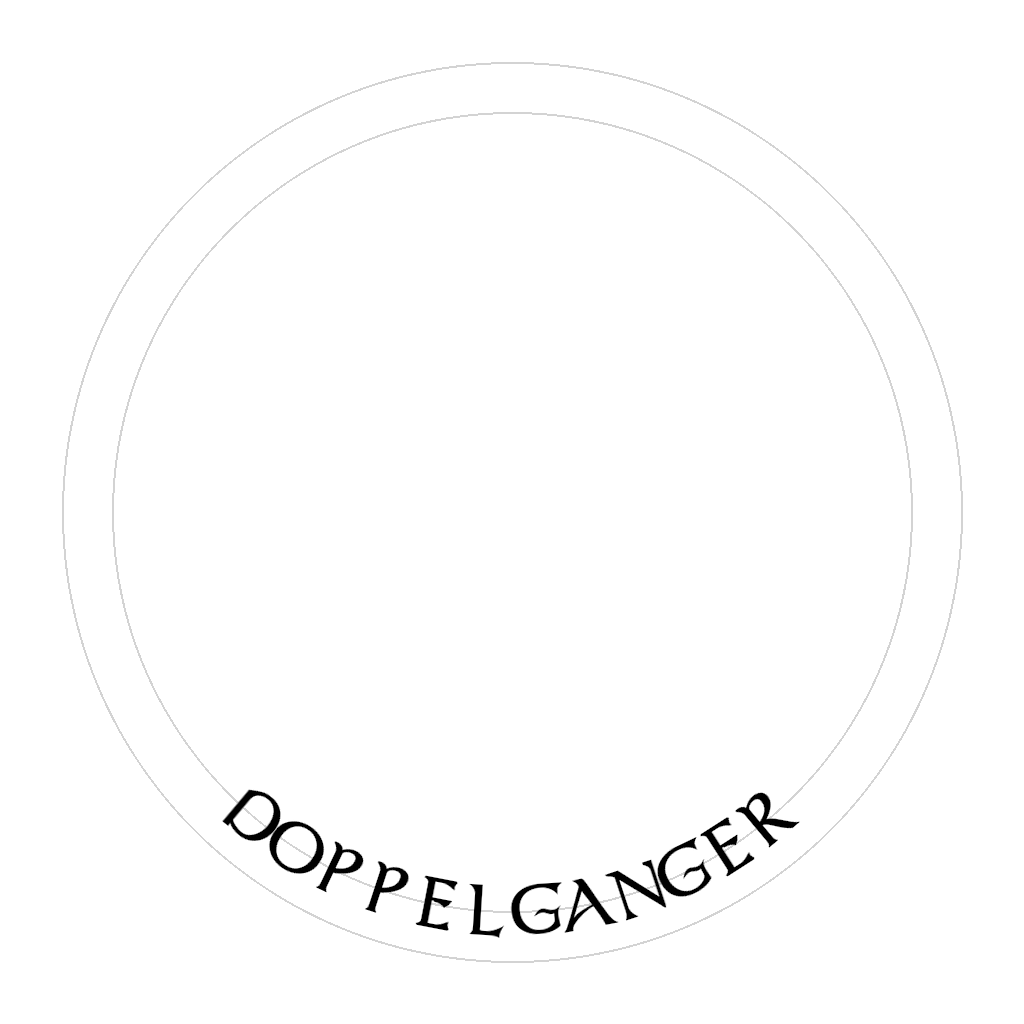
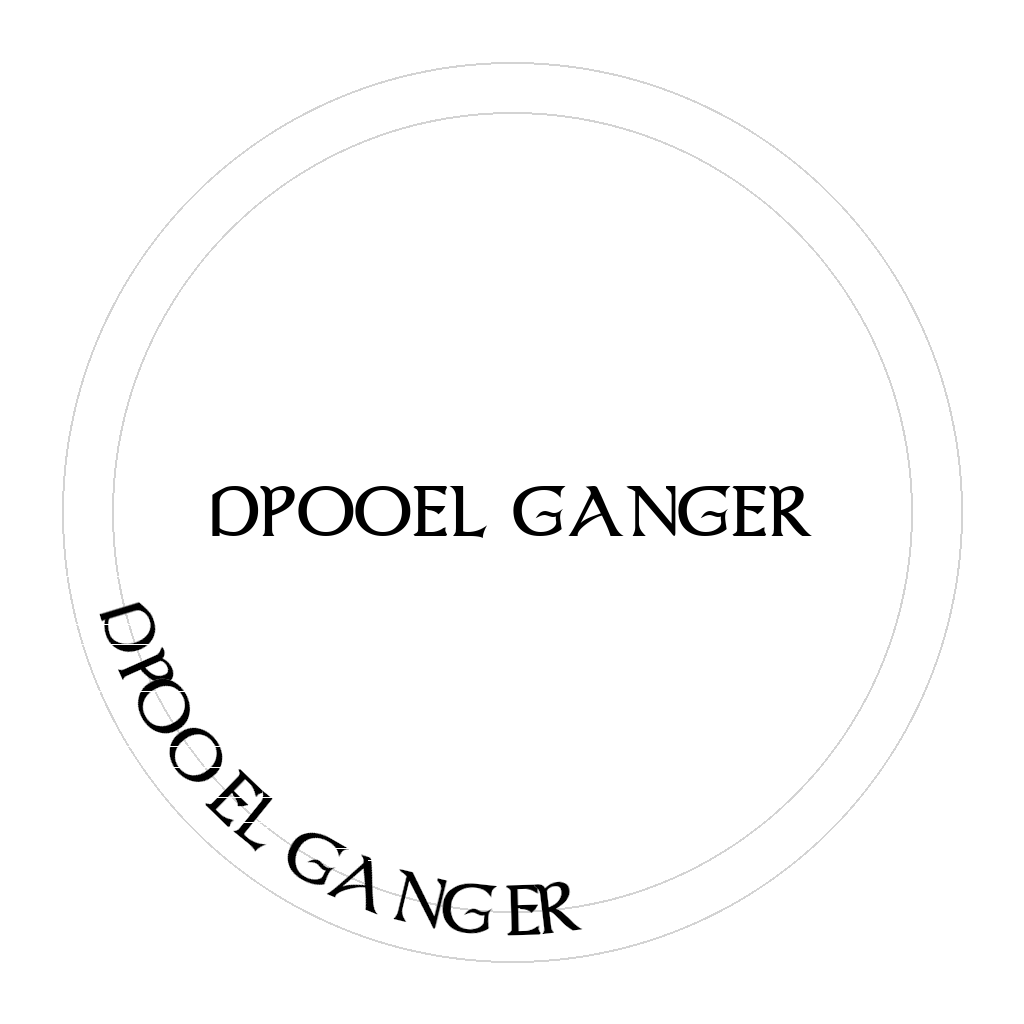
box part 1

Changed region(s): [[0.0938, 0.5938, 0.7812, 0.9375], [0.5, 0.4688, 0.7812, 0.5312], [0.1875, 0.4688, 0.4688, 0.5312]]

diff --git a/create_box_layout.py b/create_box_layout.py
@@ -1,0 +1,154 @@
+import os
+from PIL import Image, ImageDraw, ImageFont
+
+# --- Configuration ---
+DPI = 150  # Dots Per Inch
+PAPER_WIDTH_INCHES = 25
+PAPER_HEIGHT_INCHES = 25
+MARGIN_INCHES = 0.5
+OUTPUT_DIR = 'box_print_sheets'
+
+# --- Calculations (inches to pixels) ---
+PAPER_WIDTH_PX = int(PAPER_WIDTH_INCHES * DPI)
+PAPER_HEIGHT_PX = int(PAPER_HEIGHT_INCHES * DPI)
+MARGIN_PX = int(MARGIN_INCHES * DPI)
+
+PRINTABLE_WIDTH_PX = PAPER_WIDTH_PX - 2 * MARGIN_PX
+PRINTABLE_HEIGHT_PX = PAPER_HEIGHT_PX - 2 * MARGIN_PX
+
+
+def create_new_sheet():
+    """Creates a new blank letter-sized sheet with a white background."""
+    return Image.new('RGBA', (PAPER_WIDTH_PX, PAPER_HEIGHT_PX), 'white')
+
+
+
+def create_box_layout_sheet(filename, box_w, box_d, box_h, is_lid=False):
+    """Generates a printable sheet for one part of the box (tray or lid)."""
+    sheet = create_new_sheet()
+    draw = ImageDraw.Draw(sheet)
+
+    # Dimensions in pixels
+    w_px, d_px, h_px = int(box_w * DPI), int(box_d * DPI), int(box_h * DPI)
+    tab_offset = int(0.5 * DPI)
+
+
+    name_lid = (0, 0, w_px, h_px) # lid with the name on it 
+    
+    bottom_side = ( 0, h_px, w_px, h_px + d_px) # this will be under the name lid
+    bottom_side_layer_2 = (0, h_px + d_px, w_px, h_px + d_px + d_px) # this will be under bottom side
+    attatch_tab_bottom = [
+        (0, h_px + d_px + d_px),
+        (0, h_px + d_px + d_px + tab_offset//2),
+        (tab_offset//2, h_px + d_px + d_px + tab_offset),
+        (w_px - tab_offset//2, h_px + d_px + d_px + tab_offset),
+        (w_px, h_px + d_px + d_px + tab_offset//2),
+        (w_px, h_px + d_px + d_px)
+    ] # this will be bellow bottom
+
+    top_side = (0, 0, w_px, -d_px) # this will be above the name lid
+    top_side_layer_2 = (0, -d_px, w_px, -d_px - d_px) # this will be above top side
+
+    attatch_tab_top = [
+        (0, -d_px - d_px),
+        (0, -d_px - d_px - tab_offset//2),
+        (tab_offset//2, -d_px - d_px - tab_offset),
+        (w_px - tab_offset//2, -d_px - d_px - tab_offset),
+        (w_px, -d_px - d_px - tab_offset//2),
+        (w_px, -d_px - d_px)
+    ]
+
+    left_side = (0, 0, -d_px, h_px)
+    left_side_layer_2 = (-d_px, 0, -d_px - d_px, h_px)
+    attatch_tab_left = [
+        (-d_px - d_px, 0),
+        (-d_px - d_px - tab_offset//2, 0),
+        (-d_px - d_px - tab_offset, tab_offset//2),
+        (-d_px - d_px - tab_offset, h_px - tab_offset//2),
+        (-d_px - d_px - tab_offset//2, h_px),
+        (-d_px - d_px, h_px)
+    ]
+
+    right_side = (w_px, 0, w_px + d_px, h_px)
+    right_side_layer_2 = (w_px + d_px, 0, w_px + d_px + d_px, h_px)
+    attatch_tab_right = [
+        (w_px + d_px + d_px, 0),
+        (w_px + d_px + d_px + tab_offset//2, 0),
+        (w_px + d_px + d_px + tab_offset, tab_offset//2),
+        (w_px + d_px + d_px + tab_offset, h_px - tab_offset//2),
+        (w_px + d_px + d_px + tab_offset//2, h_px),
+        (w_px + d_px + d_px, h_px)
+    ]
+    def _add_constant_to_coords(coords, constant_x, constant_y):
+        """Adds a constant value to the x and y components of each coordinate pair."""
+        if type(coords) == tuple:
+            x, y, x2, y2 = coords
+            x, y, x2, y2 = x + constant_x, y + constant_y, x2 + constant_x, y2 + constant_y
+            if x > x2:
+                x, x2 = x2, x
+            if y > y2:
+                y, y2 = y2, y
+            return [(x, y), (x2, y2)]
+        print(f'coords: {coords}')
+        return [(x + constant_x, y + constant_y) for x, y in coords]
+    START_X = PAPER_WIDTH_PX//2 - w_px//2
+    START_Y = PAPER_HEIGHT_PX//2 - h_px//2
+
+    draw.rectangle(_add_constant_to_coords(name_lid, START_X, START_Y), outline="black")
+
+    draw.rectangle(_add_constant_to_coords(bottom_side, START_X, START_Y), outline="black")
+    draw.rectangle(_add_constant_to_coords(bottom_side_layer_2, START_X, START_Y), outline="black")
+    draw.polygon(_add_constant_to_coords(attatch_tab_bottom, START_X, START_Y), outline="black")
+
+    draw.rectangle(_add_constant_to_coords(top_side, START_X, START_Y), outline="black")
+    draw.rectangle(_add_constant_to_coords(top_side_layer_2, START_X, START_Y), outline="black")
+    draw.polygon(_add_constant_to_coords(attatch_tab_top, START_X, START_Y), outline="black")
+
+    draw.rectangle(_add_constant_to_coords(left_side, START_X, START_Y), outline="black")
+    draw.rectangle(_add_constant_to_coords(left_side_layer_2, START_X, START_Y), outline="black")
+    draw.polygon(_add_constant_to_coords(attatch_tab_left, START_X, START_Y), outline="black")
+
+    draw.rectangle(_add_constant_to_coords(right_side, START_X, START_Y), outline="black")
+    draw.rectangle(_add_constant_to_coords(right_side_layer_2, START_X, START_Y), outline="black")
+    draw.polygon(_add_constant_to_coords(attatch_tab_right, START_X, START_Y), outline="black")
+    return sheet
+
+
+
+
+
+
+
+    
+
+
+
+def main():
+    """
+    Generates a two-page print layout for a foldable box.
+    """
+    os.makedirs(OUTPUT_DIR, exist_ok=True)
+    print("--- Generating Printable Box Layout ---")
+    print("Black lines are for cutting, gray lines are for folding.")
+
+    # --- Define Box Dimensions ---
+    LID_WIDTH = 11.0
+    LID_HEIGHT = 2.375
+    LID_DEPTH = 1.5
+
+    # Tray is slightly smaller
+    TRAY_WIDTH = LID_WIDTH - 0.125
+    TRAY_DEPTH = LID_DEPTH - 0.125
+    TRAY_HEIGHT = 1.5
+
+    # --- Generate Sheets ---
+    # create_box_layout_sheet("box_tray_layout.png", TRAY_WIDTH, TRAY_DEPTH, TRAY_HEIGHT)
+    layout_sheet = create_box_layout_sheet("box_lid_layout.png", LID_WIDTH, LID_DEPTH, LID_HEIGHT, is_lid=True)
+    output_filename = os.path.join(OUTPUT_DIR, 'box_layout.png')
+    layout_sheet.save(output_filename)
+
+    print(f"\nBox layout generation complete. Sheets are in the '{OUTPUT_DIR}' directory.")
+
+
+if __name__ == '__main__':
+    main()

diff --git a/arc_text.py b/arc_text.py
@@ -18,29 +18,35 @@ def draw_text_on_arc(image, center_xy, radius, start_angle_deg, text_angle_deg, 
         font (PIL.ImageFont.FreeTypeFont): The font to use for the text.
         fill (tuple or str): The color of the text.
     """
-    text = text.upper()
     if not text:
         return
+    text = text.strip()
+
+    draw_text = ImageDraw.Draw(image)
+    draw_text.text(center_xy, text, font=font, fill=fill, anchor='mm')
 
     center_x, center_y = center_xy
-    num_chars = len(text)
+    def calc_char_width(char, next_char=None):
+        if next_char is None:
+            print(f'char: {char} next_char: {next_char}')
+            return font.getlength(char)
+        return font.getlength(f'{char}{next_char}') - font.getlength(next_char)
+    
 
-    # Calculate the angular step between the center of each character
-    if num_chars > 1:
-        angle_step = text_angle_deg / (num_chars - 1)
-    else:
-        angle_step = 0  # A single character is placed in the middle of the arc
+    char_widths = [calc_char_width(text[i], text[i+1])
+                   if i < len(text)-1 else calc_char_width(text[i])
+                   for i in range(len(text))]
+    assert sum(char_widths) == font.getlength(text)
+    char_angles = [ char_width / radius for char_width in char_widths]
+    # char_angles = [math.acos(
+    #                 (2 * math.pow(better_radius,2) - math.pow(char_width,2)) /
+    #                 (2 * math.pow(better_radius,2))) for char_width in char_widths]
+    print([f"{char}: {char_widths[i]}, {char_angles[i]}" for i, char in enumerate(text)])
 
+    current_angle = math.radians(start_angle_deg)
     for i, char in enumerate(text):
-        # Determine the angle for the current character
-        if num_chars > 1:
-            char_angle_deg = start_angle_deg + (i * angle_step)
-        else:
-            # Center the single character within the provided text_angle_deg
-            char_angle_deg = start_angle_deg + text_angle_deg / 2
-
         # --- 1. Calculate character's center position on the arc ---
-        char_angle_rad = math.radians(char_angle_deg)
+        char_angle_rad = current_angle
         char_x = center_x + radius * math.cos(char_angle_rad)
         char_y = center_y + radius * math.sin(char_angle_rad)
 
@@ -60,11 +66,9 @@ def draw_text_on_arc(image, center_xy, radius, start_angle_deg, text_angle_deg, 
 
         # --- 3. Rotate the character to be tangent to the arc ---
         # The rotation angle makes the character's "up" direction point away from the center
-        if text_angle_deg > 0:
-            rotation_angle = 270 - char_angle_deg
-        else:
-            rotation_angle = 90 - char_angle_deg
+        rotation_angle = 90 - math.degrees(current_angle)
         rotated_char_img = temp_img.rotate(rotation_angle, expand=True, resample=Image.Resampling.BICUBIC)
+
 
         # --- 4. Paste the rotated character onto the main image ---
         # Calculate top-left corner for pasting to center the character on its arc position
@@ -72,12 +76,24 @@ def draw_text_on_arc(image, center_xy, radius, start_angle_deg, text_angle_deg, 
         paste_y = int(char_y - rotated_char_img.height / 2)
 
         image.paste(rotated_char_img, (paste_x, paste_y), rotated_char_img)
+        draw = ImageDraw.Draw(image)
+        half_w = rotated_char_img.width / 2
+        draw.line((paste_x - half_w, paste_y, paste_x + half_w, paste_y))
+
+        # --- 5. Increment the angle by the width
+        char_width = char_widths[i]
+        angle_step = char_angles[i]
+        current_angle -= angle_step
+
+
 
 
 def save_arc_text_example(filename="arc_text_example.png", text="EXAMPLE TEXT ON ARC"):
     """
     Creates and saves an image to demonstrate the draw_text_on_arc function.
     """
+    text = text.upper()
+
     # --- Setup Canvas ---
     width, height = 1024, 1024
     image = Image.new('RGBA', (width, height), 'white')
@@ -109,10 +125,9 @@ def save_arc_text_example(filename="arc_text_example.png", text="EXAMPLE TEXT ON
     )
 
     # --- Draw Text on Top Arc ---
-    magic_ratio_length_to_width = 4.9
     text_width = draw.textlength(text, font=font)
-    text_angle_deg = -text_width // magic_ratio_length_to_width
-    start_angle_deg = 90 + abs(text_angle_deg//2)
+    text_angle_deg = math.degrees( text_width / radius)
+    start_angle_deg = 120 + abs(text_angle_deg//2)
     draw_text_on_arc(
         image=image,
         center_xy=center,
@@ -130,4 +145,4 @@ def save_arc_text_example(filename="arc_text_example.png", text="EXAMPLE TEXT ON
 
 
 if __name__ == '__main__':
-    save_arc_text_example(text="doppelganger")
+    save_arc_text_example(text="dpooel ganger")
